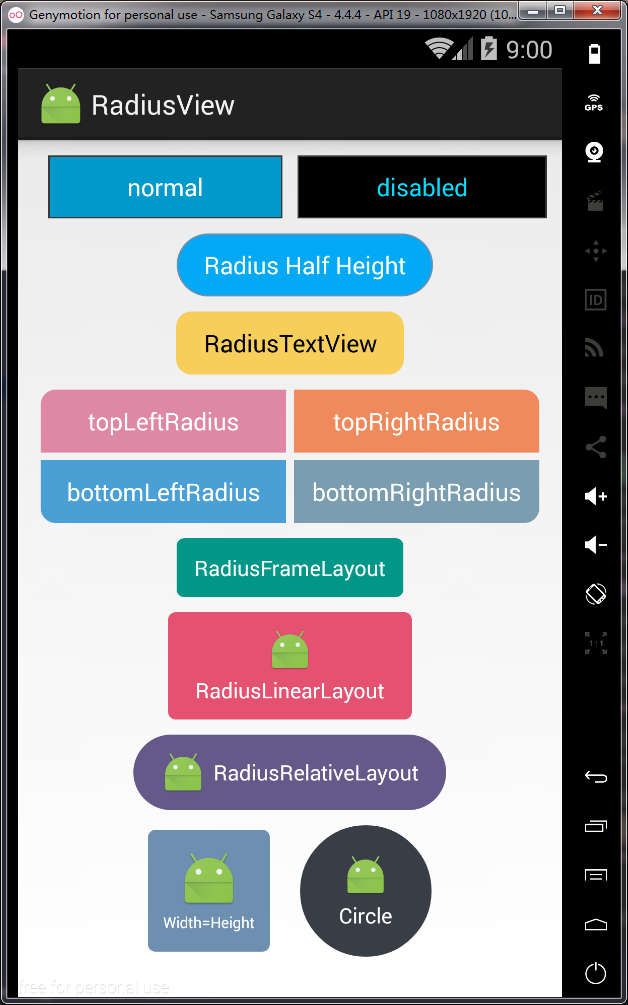
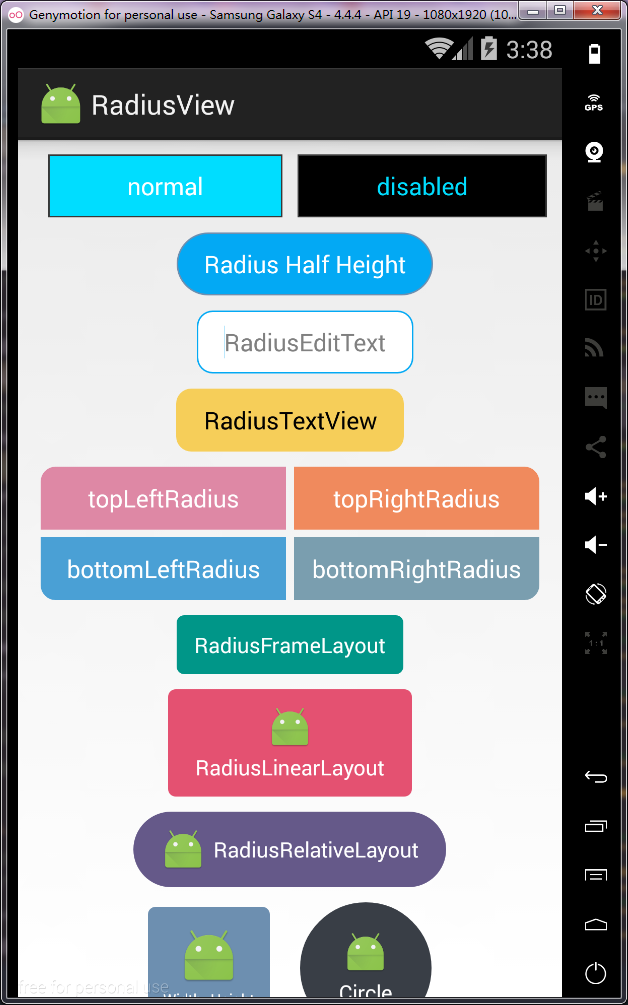
1、增加RadiusEditText控件修改效果截图

diff --git a/library/src/main/java/com/aries/ui/view/radius/RadiusEditText.java b/library/src/main/java/com/aries/ui/view/radius/RadiusEditText.java
@@ -1,0 +1,56 @@
+package com.aries.ui.view.radius;
+
+import android.content.Context;
+import android.util.AttributeSet;
+import android.widget.EditText;
+
+/**
+ * Created: AriesHoo on 2017-02-13 16:10
+ * Function:用于需要圆角矩形框背景的EditText的情况,减少直接使用TextView时引入的shape资源文件
+ * Desc:
+ */
+public class RadiusEditText extends EditText {
+    private RadiusViewDelegate delegate;
+
+    public RadiusEditText(Context context) {
+        this(context, null);
+    }
+
+    public RadiusEditText(Context context, AttributeSet attrs) {
+        this(context, attrs, 0);
+    }
+
+    public RadiusEditText(Context context, AttributeSet attrs, int defStyleAttr) {
+        super(context, attrs, defStyleAttr);
+        delegate = new RadiusViewDelegate(this, context, attrs);
+    }
+
+    /**
+     * use delegate to set attr
+     */
+    public RadiusViewDelegate getDelegate() {
+        return delegate;
+    }
+
+    @Override
+    protected void onMeasure(int widthMeasureSpec, int heightMeasureSpec) {
+        if (delegate.getWidthHeightEqualEnable() && getWidth() > 0 && getHeight() > 0) {
+            int max = Math.max(getWidth(), getHeight());
+            int measureSpec = MeasureSpec.makeMeasureSpec(max, MeasureSpec.EXACTLY);
+            super.onMeasure(measureSpec, measureSpec);
+            return;
+        }
+
+        super.onMeasure(widthMeasureSpec, heightMeasureSpec);
+    }
+
+    @Override
+    protected void onLayout(boolean changed, int left, int top, int right, int bottom) {
+        super.onLayout(changed, left, top, right, bottom);
+        if (delegate.getRadiusHalfHeightEnable()) {
+            delegate.setRadius(getHeight() / 2);
+        } else {
+            delegate.setBgSelector();
+        }
+    }
+}

diff --git a/library/src/main/java/com/aries/ui/view/radius/RadiusViewDelegate.java b/library/src/main/java/com/aries/ui/view/radius/RadiusViewDelegate.java
@@ -11,6 +11,7 @@ import android.graphics.drawable.StateListDrawable;
 import android.os.Build;
 import android.util.AttributeSet;
 import android.view.View;
+import android.widget.EditText;
 import android.widget.TextView;
 
 /**
@@ -70,7 +71,6 @@ public class RadiusViewDelegate {
         bottomLeftRadius = ta.getDimensionPixelSize(R.styleable.RadiusTextView_rv_bottomLeftRadius, 0);
         bottomRightRadius = ta.getDimensionPixelSize(R.styleable.RadiusTextView_rv_bottomRightRadius, 0);
         isRippleEnable = ta.getBoolean(R.styleable.RadiusTextView_rv_rippleEnable, true);
-
         ta.recycle();
     }
 
@@ -274,7 +274,7 @@ public class RadiusViewDelegate {
             }
         }
 
-        if (view instanceof TextView) {
+        if (view instanceof TextView || view instanceof EditText) {
             TextView textView = (TextView) view;
             if (textPressedColor != Integer.MAX_VALUE) {
                 textColor = (textColor == Integer.MAX_VALUE ? textView.getTextColors().getDefaultColor() : textColor);

diff --git a/README.md b/README.md
@@ -2,7 +2,7 @@
 --------------------------
 ####一、简介：
 
-一个用于需要圆角矩形框背景的TextView或Layout的情况,减少直接使用时引入的shape资源文件，包括RadiusTextView，RadiusLinearLayout，RadiusRelativeLayout,RadiusLinearLayout
+一个用于需要圆角矩形框背景的TextView或Layout的情况,减少直接使用时引入的shape资源文件，包括RadiusTextView，RadiusEditText,RadiusLinearLayout，RadiusRelativeLayout,RadiusLinearLayout
 该库为[FlycoRoundView](https://github.com/H07000223/FlycoRoundView)扩展,主要增加不可点击状态属性并修改部分属性命名方式，使用方式参照layout_main.
 
 **1.1 Gradle集成**
